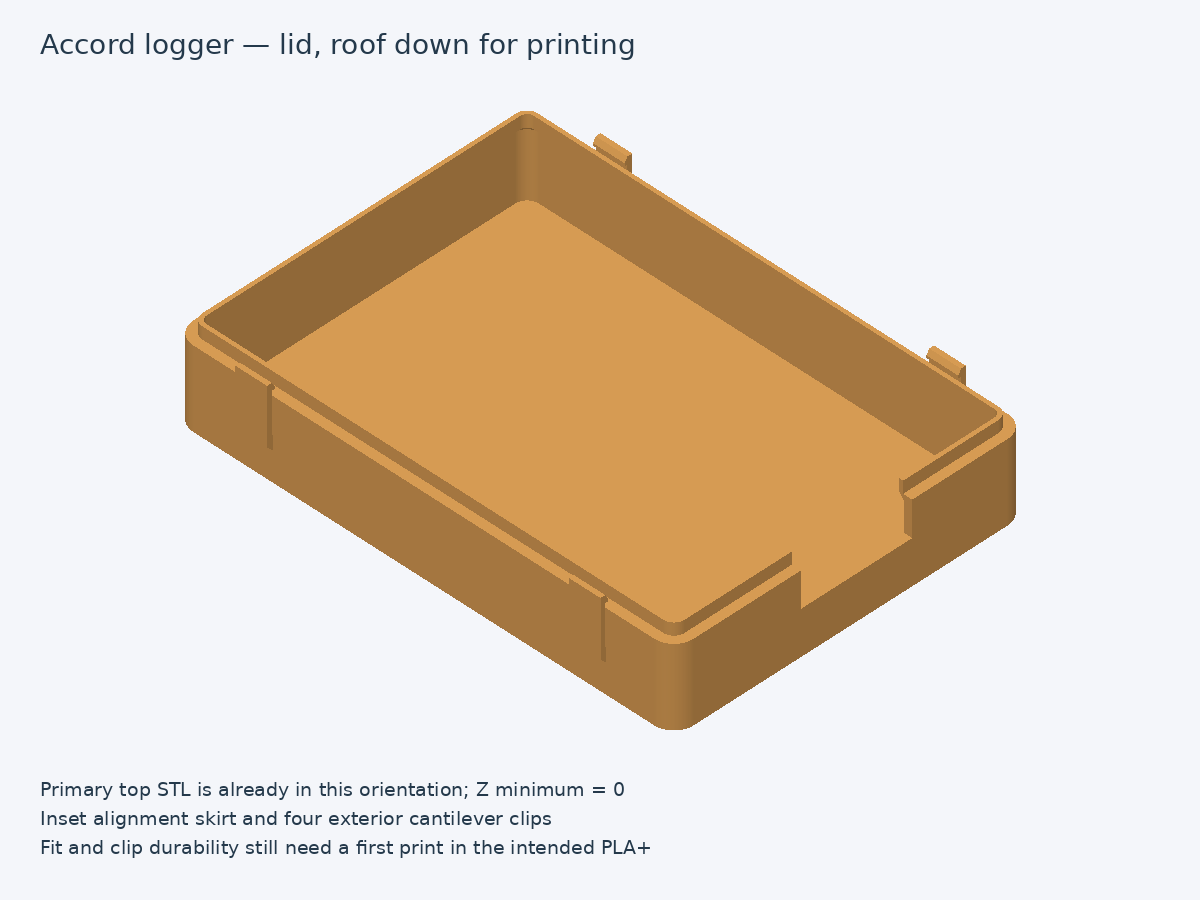
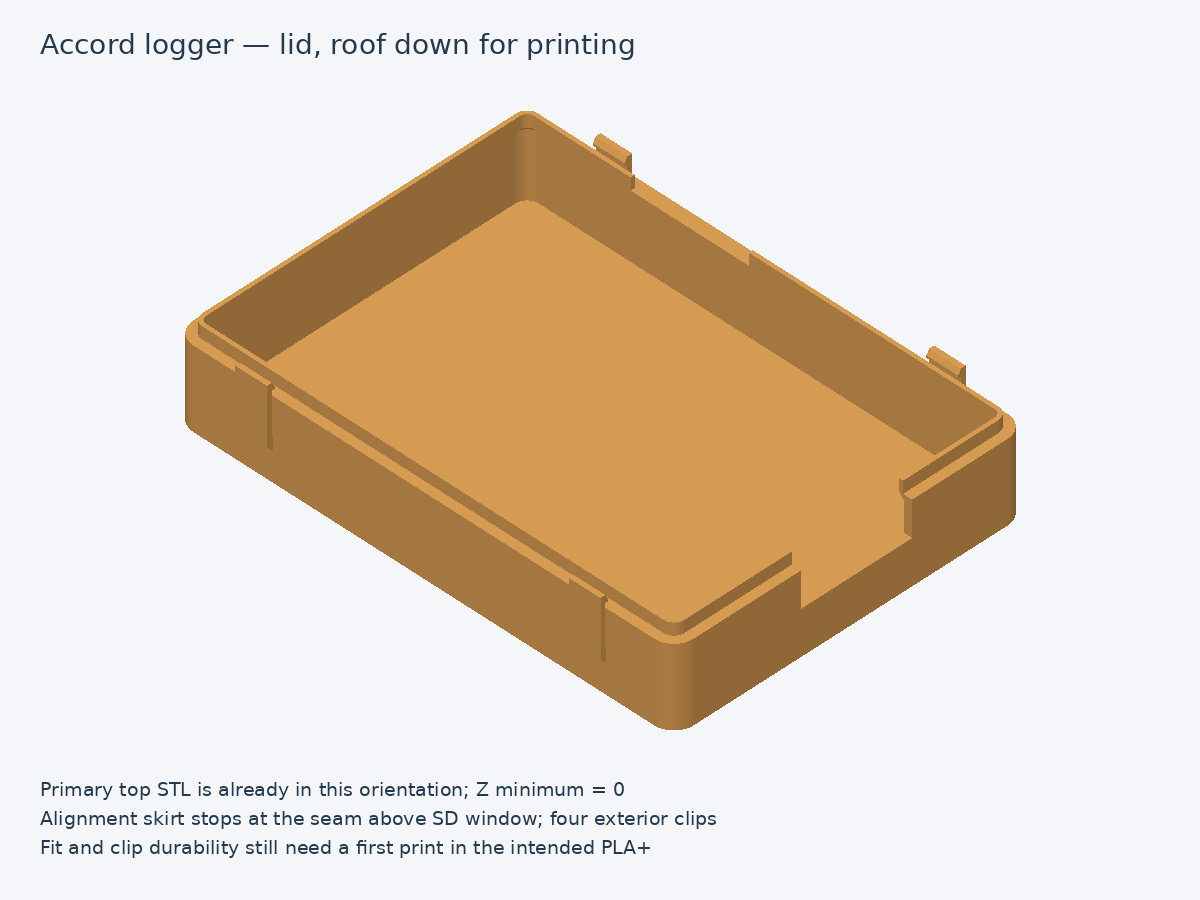
Remove lid alignment lip above logger SD window
Stop the lid at the bottom rim across the SD opening width. Preserve the printed bottom and remaining lid geometry; regenerate meshes and previews and verify the isolated skirt removal.

Codex-Session-ID: 01a1cdc1-630d-7712-8fb9-fc96c15acb08

Changed region(s): [[0.0308, 0.9022, 0.5858, 0.9333], [0.5242, 0.1867, 0.6167, 0.28]]

diff --git a/logger/hardware/kicad/tools/build_case_enclosure.py b/logger/hardware/kicad/tools/build_case_enclosure.py
@@ -182,6 +182,10 @@ def main():
     lid = lid+skirt+root
     jae_cutter = box([118, 26, 8.275], [5.2, 28, 16.5])
     lid -= jae_cutter
+    # Above the SD window, stop all lid material at the bottom's top rim.
+    sd_lip_x = sd['center_along_wall']-sd['width']/2
+    sd_lip_gap = box([sd_lip_x, -5, 0], [sd['width'], 6, seam])
+    lid -= sd_lip_gap
 
     # Local coordinates: u points outwards from the outside wall, v is case Z.
     beam_profile = [(0.3, 12.8), (1.5, 12.8), (1.5, 26.9), (-0.3, 28.7), (-0.3, 25)]
@@ -216,6 +220,7 @@ def main():
     assert abs(((bottom+lid) ^ jae_cutter).volume()) < 1e-4  # STL float32 rounding
     sd_access = box(sd['cutter_origin'], sd['cutter_size'])
     assert abs(((bottom+lid) ^ sd_access).volume()) < 1e-4
+    assert abs((lid ^ sd_lip_gap).volume()) < 1e-4
     protected = box([-4, -5, 0], [128, 94, 12.5])
     assert abs(((base-bottom) ^ protected).volume()) < 1e-4
     expected_removed = 4*9*2*2.2
@@ -239,7 +244,9 @@ def main():
                   seam_z=16, roof_thickness=roof, roof_underside_z=top_z-roof, wall=2,
                   pcb_headroom=args.pcb_headroom,
                   pcb_top_z=dims['pcb_top_z'], lip=dict(insertion=3, radial_clearance=lip_gap,
-                  thickness=1, lowest_z=13, interrupted_at_JAE=True),
+                  thickness=1, lowest_z=13, interrupted_at_JAE=True,
+                  SD_gap=dict(x=[sd_lip_x, sd_lip_x+sd['width']], width=sd['width'],
+                              lowest_lid_z=seam)),
                   snap=dict(count=4, centers_x=[18, 102], walls=['front', 'back'],
                   beam_width=8, beam_thickness=1.2, outside_gap=0.3, root_radius=0.6,
                   root_z=25, hook_retention_z=14.6, hook_tip_z=12.8,
@@ -249,10 +256,11 @@ def main():
                   bottom=bottom_report, lid_assembled=lid_report, lid_print=print_report,
                   validation=dict(exported_meshes_closed_oriented_connected=True,
                   closed_assembly_overlap_mm3=overlap, SD_and_JAE_apertures_clear=True,
+                  no_lid_below_rim_over_SD_window=True,
                   original_geometry_below_z_12_5_preserved=True, latch_retention_and_release_checked=True,
                   physical_fit_and_fatigue_tested=False))
     (out/'dimensions.json').write_text(json.dumps(report, indent=2)+'\n')
-    write_scad(out, engagement, lip_gap, beam_profile, args.pcb_headroom)
+    write_scad(out, engagement, lip_gap, beam_profile, args.pcb_headroom, sd)
     if args.preview:
         blue, orange = (100, 155, 197), (225, 163, 88)
         render(out/'assembled-preview.png', [(bottom, blue), (lid, orange)],
@@ -263,17 +271,17 @@ def main():
         render(out/'exploded-preview.png', [(bottom, blue), (lid.translate((0, 0, 24)), orange)],
                'Accord logger — matching bottom and lid',
                ['Lid lifted 24 mm for illustration; PCB omitted',
-                'Four receiver windows in bottom; alignment lip interrupted at JAE connector',
+                'Four receiver windows in bottom; alignment lip interrupted at SD and JAE openings',
                 'Existing studs, SD opening and bottom chamfer retained'])
         render(out/'top-print-preview.png', [(printed_lid, orange)],
                'Accord logger — lid, roof down for printing',
                ['Primary top STL is already in this orientation; Z minimum = 0',
-                'Inset alignment skirt and four exterior cantilever clips',
+                'Alignment skirt stops at the seam above SD window; four exterior clips',
                 'Fit and clip durability still need a first print in the intended PLA+'])
     print(json.dumps(report, indent=2))
 
 
-def write_scad(out, engagement, lip_gap, beam, headroom):
+def write_scad(out, engagement, lip_gap, beam, headroom, sd):
     # Same constructive geometry as the exported STL; base is imported, lid editable.
     source = '''// SPDX-License-Identifier: CERN-OHL-P-2.0
 // Copyright 2026 Jayson Gazeley — https://github.com/jgazeley/accord
@@ -282,6 +290,8 @@ part = "top"; // top (roof down), bottom, assembled, exploded
 engagement = ENGAGEMENT; // 0.1..0.6; regenerate BOTH parts after fitting changes
 lip_clearance = LIP_GAP; // radial, 0.2..0.5
 pcb_headroom = HEADROOM; // PCB top to roof underside; mating geometry stays fixed
+sd_center_x = SD_CENTER;
+sd_width = SD_WIDTH; // gap matches lower SD window
 pcb_top_z = 8.775;
 roof = 2;
 top_z = pcb_top_z+pcb_headroom+roof;
@@ -326,6 +336,8 @@ module lid() {
             }
             // Cut wall AND alignment skirt to complete the lower JAE notch.
             translate([118,26,8.275]) cube([5.2,28,16.5]);
+            // Remove the thin inner skirt below the Z=16 seam above SD access.
+            translate([sd_center_x-sd_width/2,-5,0]) cube([sd_width,6,16]);
         }
         clips();
     }
@@ -340,6 +352,7 @@ else assert(false,"Unknown part selector");
 '''
     source = source.replace('ENGAGEMENT', str(engagement)).replace('LIP_GAP', str(lip_gap))
     source = source.replace('BEAM', json.dumps(beam)).replace('HEADROOM', str(headroom))
+    source = source.replace('SD_CENTER', str(sd['center_along_wall'])).replace('SD_WIDTH', str(sd['width']))
     (out/'accord-logger-enclosure.scad').write_text(source)
 
 

diff --git a/logger/hardware/kicad/mechanical/case-enclosure/README.md b/logger/hardware/kicad/mechanical/case-enclosure/README.md
@@ -9,7 +9,8 @@ not have the receivers needed for these clips.
 that the tallest component is about 20 mm above the PCB. The revised lid
 provides **25 mm of clear height above the PCB**, about 5 mm over that estimate.
 The bottom STL is byte-for-byte unchanged; the existing snap positions,
-alignment skirt and connector opening are retained. Only the lid needs printing.
+alignment skirt (apart from the SD relief below) and connector opening are retained.
+Only the lid needs printing.
 
 ![Assembled case](assembled-preview.png)
 
@@ -56,8 +57,13 @@ the previous catalogue-based allowances; see the
 Harness-plug latch operation and actual fitted component heights still need
 checking on the assembly.
 
-The original SD window stays 29.8 × 3.75 mm. Its top is Z=12.025; the skirt
-ends at Z=13, leaving 0.975 mm between them. The owner-selected SD position
+**SD lip relief (November 27, D-CASE-41):** the thin alignment skirt is removed
+across the SD window's full 29.8 mm width, X=26.3675..56.1675, on the front
+(-Y) wall. In this section the lid stops at **Z=16**, flush with the top edge
+of the bottom half; nothing from the lid projects down behind the SD area.
+The lid wall and skirt root above the seam remain joined. The original
+29.8 × 3.75 mm window and the printed bottom are unchanged.
+Elsewhere the alignment skirt still extends down to Z=13. The owner-selected SD position
 remains provisional, directly above the PCB. The skirt projects 0.3 mm inward
 past the PCB outline, starting 4.225 mm above the PCB top; check tall edge
 components against it. The four stepped studs, 3.175 mm support height,
@@ -102,7 +108,7 @@ python3 logger/hardware/kicad/tools/build_case_enclosure.py --preview
 
 `--pcb-headroom` sets the clear height above the PCB (default 25 mm,
 minimum 18.225 mm). It raises the roof and upper walls while keeping the
-bottom, clip roots/hooks, seam, skirt and JAE aperture fixed. The previous
+bottom, clip roots/hooks, seam, skirt geometry and JAE aperture fixed. The previous
 29 mm overall case used 18.225 mm headroom. The current overall height is
 `8.775 PCB top + 25 headroom + 2 roof = 35.775 mm`.
 
@@ -137,10 +143,13 @@ at coincident cut faces. Independent sections at Z=13.1 and 15.9 confirm
 the 0.3 mm skirt gap; reversing the print orientation matches assembly
 vertices within 0.00001 mm. Both extremes of the exposed fit-adjustment
 ranges also pass the geometry checks from the original lid validation.
-For the height revision, comparison with the previous exported lid confirms
+For the height revision (before the subsequent SD skirt relief), comparison with the previous exported lid confirms
 identical geometry below Z=26.9 mm, covering the mating skirt, hooks and
 connector aperture. An independent cavity check verifies 25 mm headroom
-and the 2 mm roof. The bottom export is identical to its previous bytes.
+and the 2 mm roof. The SD relief removes only the 29.8 × 1 × 3 mm skirt
+segment (89.4 mm³); comparison with the previous exported mesh confirms no
+other changes. The gap is empty below Z=16 and the wall above it remains
+solid. The bottom export is identical to its previous bytes.
 
 Based on Accord by Jayson Gazeley — https://github.com/jgazeley/accord.
 The design and generated representations use CERN-OHL-P-2.0; see

diff --git a/coordination/DECISIONS.md b/coordination/DECISIONS.md
@@ -8,6 +8,13 @@ October 29 evening were carried over from the retired tracker
 
 ## November 27, 2026
 
+**D-CASE-41: interrupt the lid's inner lip above the SD window.** Owner:
+*"I would like the top to leave a "gap" in that same area, where the top
+half does not extend below the very top edge of the bottom half. This means
+the small thin inner pieces"*. Remove the downward-projecting alignment
+skirt across the SD window's width, stopping the lid at the Z=16 mm seam
+there. Preserve the already printed bottom, clips and raised roof.
+
 **D-CASE-40: bottom printed; more component headroom needed before printing lid.**
 Owner: *"I printed the bottom, now I am going to print the top, but first I
 can field measure the tallest components on the PCB to make sure the top

diff --git a/coordination/STATUS.md b/coordination/STATUS.md
@@ -66,6 +66,11 @@ arrived, and the owner has transferred the working circuit onto one.**
   the estimate. Roof remains 2 mm. Bottom STL is byte-for-byte unchanged;
   comparison confirms the mating geometry and JAE aperture are preserved.
   Height is adjustable with `--pcb-headroom`; lid fit is not yet tested.
+  **SD lip gap added** (November 27, D-CASE-41): across the 29.8 mm SD
+  window width, the lid's thin inner skirt now stops at the Z=16 seam.
+  The 3 mm downward projection is removed there; bottom, clips, JAE opening
+  and 25 mm PCB headroom are unchanged. Exported-mesh checks confirm only
+  that skirt segment was removed and the wall above the seam is intact.
 
 Design and fabrication record:
 
